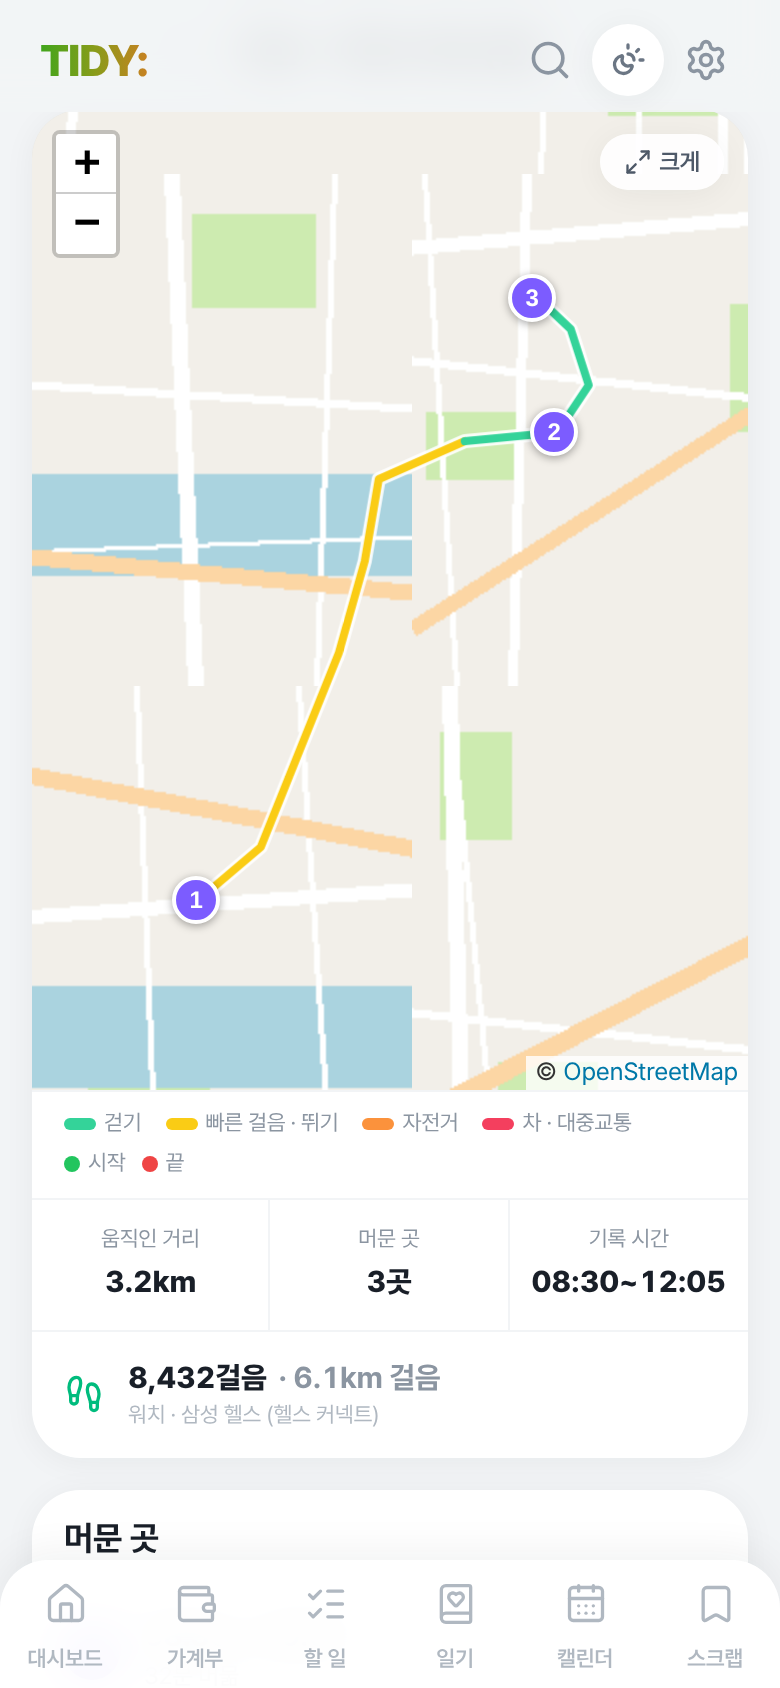
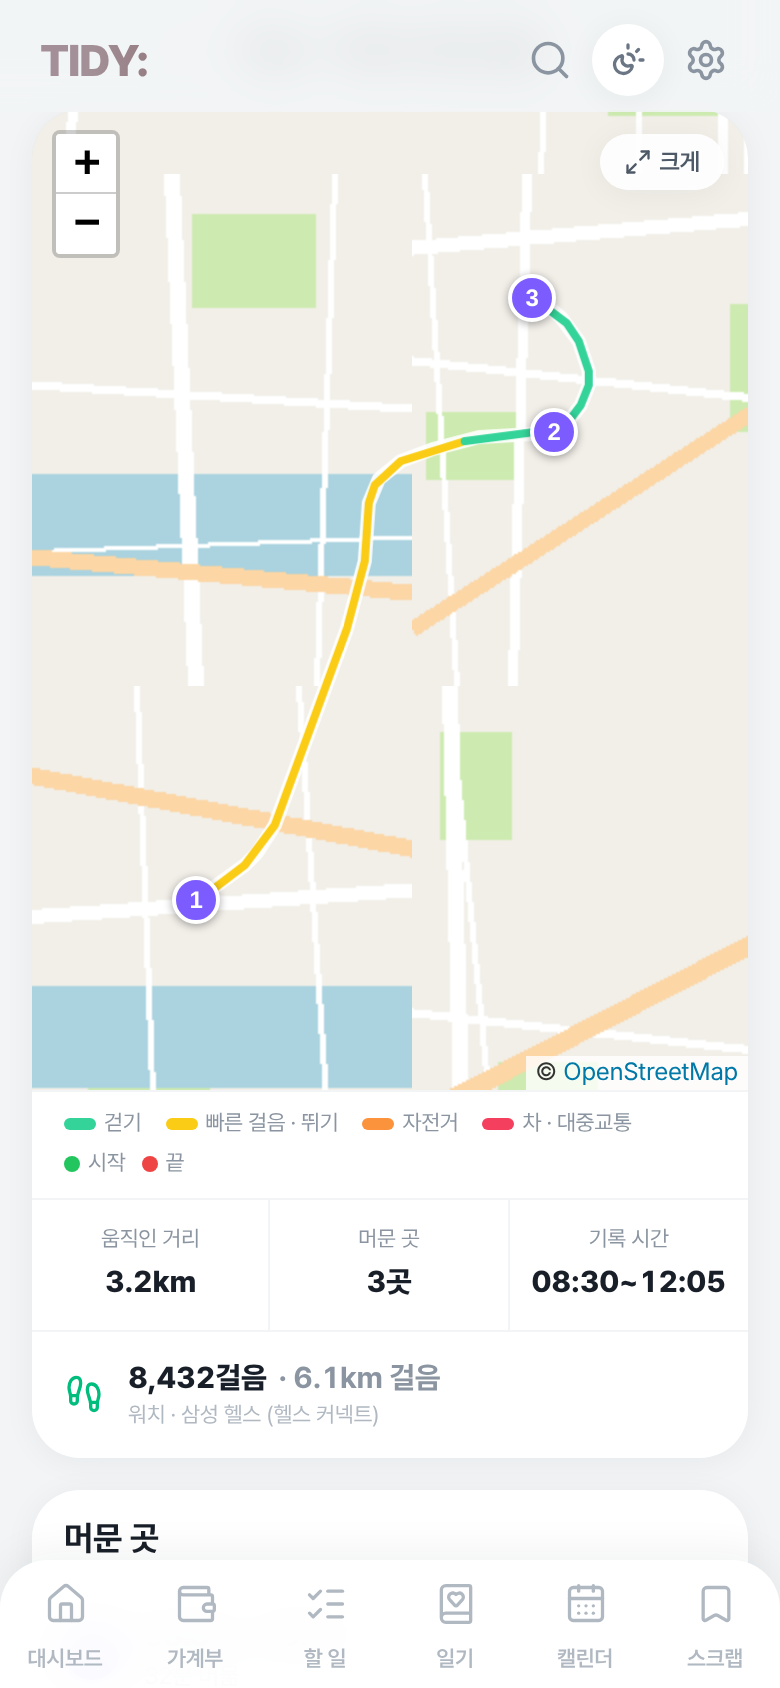
이동 기록 지도: 경로를 부드러운 곡선으로
- 꺾인 곳을 centripetal Catmull-Rom 곡선으로 (curveBetween, 원래 점은 그대로 지남)
- 그릴 때 제자리 흔들림(20m 안) 점은 뺌 (drawPoints)
- 테스트 추가

Claude-Session: https://claude.ai/code/session_01Ji86Qt13UDoHKvoK1HTbTq

diff --git a/src/lib/route.ts b/src/lib/route.ts
@@ -160,17 +160,75 @@ export interface SpeedPiece {
   points: { lat: number; lng: number }[]
 }
 
-/** 선을 빠르기 색이 같은 조각들로 나눈다. 조각끼리 끝 점을 같이 써서 선이 끊기지 않는다 */
-export function speedPieces(points: RoutePoint[]): SpeedPiece[] {
+type LatLng = { lat: number; lng: number }
+
+/**
+ * a → b 사이를 부드러운 곡선 점들로 (centripetal Catmull-Rom, 사용자 요청 2026-11-23 "경로가 각지지 않게")
+ * 곡선은 원래 점을 그대로 지나가서 머문 곳 · 시작 · 끝 위치는 바뀌지 않는다. 돌려주는 점에 a 는 빼고 b 는 넣는다
+ */
+export function curveBetween(p0: LatLng, a: LatLng, b: LatLng, p3: LatLng, steps = 12): LatLng[] {
+  // 위도에 따라 경도 1도의 길이가 다르니 평면처럼 펴서 계산한다
+  const k = Math.cos((a.lat * Math.PI) / 180)
+  const P = [p0, a, b, p3].map((p) => ({ x: p.lng * k, y: p.lat }))
+  const knot = (u: { x: number; y: number }, v: { x: number; y: number }) => Math.max(1e-9, Math.hypot(v.x - u.x, v.y - u.y) ** 0.5)
+  const t0 = 0
+  const t1 = t0 + knot(P[0], P[1])
+  const t2 = t1 + knot(P[1], P[2])
+  const t3 = t2 + knot(P[2], P[3])
+  const lerp = (u: { x: number; y: number }, v: { x: number; y: number }, ta: number, tb: number, t: number) => {
+    const w = tb - ta < 1e-12 ? 0 : (t - ta) / (tb - ta)
+    return { x: u.x + (v.x - u.x) * w, y: u.y + (v.y - u.y) * w }
+  }
+  const out: LatLng[] = []
+  for (let i = 1; i <= steps; i++) {
+    if (i === steps) {
+      out.push({ lat: b.lat, lng: b.lng })
+      break
+    }
+    const t = t1 + ((t2 - t1) * i) / steps
+    const A1 = lerp(P[0], P[1], t0, t1, t)
+    const A2 = lerp(P[1], P[2], t1, t2, t)
+    const A3 = lerp(P[2], P[3], t2, t3, t)
+    const B1 = lerp(A1, A2, t0, t2, t)
+    const B2 = lerp(A2, A3, t1, t3, t)
+    const C = lerp(B1, B2, t1, t2, t)
+    out.push({ lat: C.y, lng: C.x / k })
+  }
+  return out
+}
+
+/** 선을 빠르기 색이 같은 조각들로 나눈다. 조각끼리 끝 점을 같이 써서 선이 끊기지 않는다. smooth 면 꺾인 곳을 둥글게 */
+export function speedPieces(points: RoutePoint[], smooth = false): SpeedPiece[] {
   const out: SpeedPiece[] = []
   for (let i = 1; i < points.length; i++) {
     const a = points[i - 1]
     const b = points[i]
     const sec = Math.max(1, (b.t - a.t) / 1000)
     const color = speedColor((distanceM(a, b) / sec) * 3.6)
+    const tail = smooth && distanceM(a, b) > 5 ? curveBetween(points[i - 2] ?? a, a, b, points[i + 1] ?? b) : [{ lat: b.lat, lng: b.lng }]
     const last = out[out.length - 1]
-    if (last && last.color === color) last.points.push({ lat: b.lat, lng: b.lng })
-    else out.push({ color, points: [{ lat: a.lat, lng: a.lng }, { lat: b.lat, lng: b.lng }] })
+    if (last && last.color === color) last.points.push(...tail)
+    else out.push({ color, points: [{ lat: a.lat, lng: a.lng }, ...tail] })
+  }
+  return out
+}
+
+/** 테두리 선도 같은 곡선으로 */
+export function smoothLine(points: RoutePoint[]): LatLng[] {
+  return speedPieces(points, true).flatMap((p, i) => (i === 0 ? p.points : p.points.slice(1)))
+}
+
+/** 그릴 점만: 앞 점에서 20m(또는 정확도의 절반)도 안 움직인 점은 뺀다. 한곳에 있을 때 선이 지글지글 엉키지 않게. 마지막 점은 늘 남긴다 */
+export function drawPoints(points: RoutePoint[]): RoutePoint[] {
+  const out: RoutePoint[] = []
+  for (const p of points) {
+    const prev = out[out.length - 1]
+    if (!prev || distanceM(prev, p) >= Math.max(20, Math.min(prev.acc, p.acc) / 2)) out.push(p)
+  }
+  const last = points[points.length - 1]
+  if (last && out[out.length - 1] !== last) {
+    if (out.length > 1) out[out.length - 1] = last
+    else out.push(last)
   }
   return out
 }

diff --git a/tests/lib/route.test.ts b/tests/lib/route.test.ts
@@ -1,5 +1,5 @@
 import { describe, expect, it } from 'vitest'
-import { cleanPoints, distanceM, durationLabel, findStops, speedColor, speedPieces, summarize, type RoutePoint } from '../../src/lib/route'
+import { cleanPoints, curveBetween, distanceM, drawPoints, durationLabel, findStops, smoothLine, speedColor, speedPieces, summarize, type RoutePoint } from '../../src/lib/route'
 
 const MIN = 60 * 1000
 const T0 = new Date(2026, 10, 21, 9, 0).getTime()
@@ -78,5 +78,39 @@ describe('speedPieces', () => {
     expect(pieces[0].points).toHaveLength(3)
     expect(pieces[1].color).toBe(speedColor(60))
     expect(pieces[1].points[0]).toEqual({ lat: 37.5009, lng: 127 })
+  })
+})
+
+describe('부드러운 선', () => {
+  it('곡선은 원래 점을 지나고 끝 점에서 끝난다', () => {
+    const a = { lat: 37.5, lng: 127 }
+    const b = { lat: 37.501, lng: 127.001 }
+    const pts = curveBetween({ lat: 37.499, lng: 127 }, a, b, { lat: 37.501, lng: 127.002 })
+    expect(pts).toHaveLength(12)
+    expect(pts[pts.length - 1]).toEqual(b)
+    for (const p of pts) {
+      expect(p.lat).toBeGreaterThan(37.499)
+      expect(p.lat).toBeLessThan(37.502)
+    }
+  })
+  it('smoothLine 은 시작 · 끝 점이 그대로다', () => {
+    const t = 1_700_000_000_000
+    const pts = [0, 1, 2, 3].map((i) => ({ t: t + i * 60000, lat: 37.5 + i * 0.001, lng: 127 + (i % 2) * 0.001, acc: 5 }))
+    const line = smoothLine(pts)
+    expect(line[0]).toEqual({ lat: pts[0].lat, lng: pts[0].lng })
+    expect(line[line.length - 1]).toEqual({ lat: pts[3].lat, lng: pts[3].lng })
+    expect(line.length).toBeGreaterThan(pts.length * 4)
+  })
+  it('drawPoints 는 제자리 흔들림을 빼고 마지막 점은 남긴다', () => {
+    const t = 1_700_000_000_000
+    const pts = [
+      { t, lat: 37.5, lng: 127, acc: 10 },
+      { t: t + 1, lat: 37.50005, lng: 127, acc: 10 },
+      { t: t + 2, lat: 37.501, lng: 127, acc: 10 },
+      { t: t + 3, lat: 37.50101, lng: 127, acc: 10 },
+    ]
+    const out = drawPoints(pts)
+    expect(out).toHaveLength(2)
+    expect(out[1]).toBe(pts[3])
   })
 })

diff --git a/src/components/route/RouteMap.tsx b/src/components/route/RouteMap.tsx
@@ -2,7 +2,7 @@ import L from 'leaflet'
 import 'leaflet/dist/leaflet.css'
 import { useEffect, useRef } from 'react'
 import { MAX_ZOOM, OSM_TILE } from '../../lib/mapTile'
-import { speedPieces, type RoutePoint, type RouteStop } from '../../lib/route'
+import { drawPoints, smoothLine, speedPieces, type RoutePoint, type RouteStop } from '../../lib/route'
 import { isNativeApp } from '../../platform/native'
 
 /**
@@ -98,8 +98,9 @@ export default function RouteMap({ points, stops, interactive = true, focus = nu
     const latlngs = points.map((p) => L.latLng(p.lat, p.lng))
     // 테두리 한 줄 + 빠르기별 색 조각 (걷기 초록 → 차 빨강)
     // 테두리는 다크 모드면 어둡게 (index.css .tidy-route-outline)
-    L.polyline(latlngs, { color: '#fff', weight: 7, opacity: 0.9, lineJoin: 'round', lineCap: 'round', className: 'tidy-route-outline' }).addTo(g)
-    for (const piece of speedPieces(points)) L.polyline(piece.points, { color: piece.color, weight: 4, opacity: 1, lineJoin: 'round', lineCap: 'round' }).addTo(g)
+    const line = drawPoints(points)
+    L.polyline(smoothLine(line), { color: '#fff', weight: 7, opacity: 0.9, lineJoin: 'round', lineCap: 'round', className: 'tidy-route-outline' }).addTo(g)
+    for (const piece of speedPieces(line, true)) L.polyline(piece.points, { color: piece.color, weight: 4, opacity: 1, lineJoin: 'round', lineCap: 'round', smoothFactor: 1.5 }).addTo(g)
     // 시작(초록) · 끝(빨강)
     L.circleMarker(latlngs[0], { radius: 6, color: '#fff', weight: 2, fillColor: '#22c55e', fillOpacity: 1 }).addTo(g)
     if (latlngs.length > 1) L.circleMarker(latlngs[latlngs.length - 1], { radius: 7, color: '#fff', weight: 3, fillColor: '#ef4444', fillOpacity: 1 }).addTo(g)

diff --git a/docs/개발-기록-조각/project-thread-2ynhk2.md b/docs/개발-기록-조각/project-thread-2ynhk2.md
@@ -1,7 +1,7 @@
 ## 6
 | 2026-11-23 | #? | 기능 | 워치 걸음 수 · 걸은 거리: 갤럭시 워치 → 삼성 헬스 → 헬스 커넥트에 모인 오늘 걸음 수와 걸은 거리를 읽어서 이동 기록 화면(지도 아래)과 대시보드 이동 기록 위젯에 보여 줌. 설정 > 오늘 이동 기록에서 켜고 끔. 읽기만 하고 걸음 · 거리 두 가지 권한만 물음 (@capgo/capacitor-health, 폰 최소 버전 안드로이드 8로 올림) | 검토 중 |
 | 2026-11-23 | #? | 기능 | 이동 기록 자동 · 컴퓨터에서도: 끄지 않았으면 폰 앱 · 웹을 열 때 이동 기록이 저절로 켜짐 (위치 권한은 처음 한 번 물음, 거절하면 다시 안 물음). 컴퓨터 · 웹도 Tidy 창이 열려 있는 동안 2분마다 또는 40m 넘게 움직일 때 위치를 남김 (전에는 '지금 위치 남기기'만) | 검토 중 |
-| 2026-11-23 | #? | 기능 | 이동 기록 지도를 운동 앱처럼: 선을 빠르기별 색(걷기 초록 · 빠른 걸음 노랑 · 자전거 주황 · 차 빨강)으로, 시작 초록 · 끝 빨강 점, 색 설명. '크게' 버튼으로 화면 가득 보기(거리 · 걸음 수 · 시간). 다크 모드면 지도 그림도 어둡게 (OSM 그림을 CSS로 뒤집음, 키 필요 없음) | 검토 중 |
+| 2026-11-23 | #? | 기능 | 이동 기록 지도를 운동 앱처럼: 선을 빠르기별 색(걷기 초록 · 빠른 걸음 노랑 · 자전거 주황 · 차 빨강)으로, 시작 초록 · 끝 빨강 점, 색 설명. '크게' 버튼으로 화면 가득 보기(거리 · 걸음 수 · 시간). 다크 모드면 지도 그림도 어둡게 (OSM 그림을 CSS로 뒤집음, 키 필요 없음). 경로가 각지지 않게 꺾인 곳을 곡선으로 그리고(원래 점은 그대로 지남), 제자리 흔들림은 그릴 때 뺌 | 검토 중 |
 
 ## 3-3
 | 걸음 수 | 헬스 커넥트 (안드로이드, 무료) + @capgo/capacitor-health. 걸음 · 거리 읽기만, 쓰기 권한은 빼 둠. 플러그인 때문에 minSdk 24 → 26 |
@@ -9,7 +9,7 @@
 ## 4-4
 | 워치 걸음 수 · 걸은 거리 | 헬스 커넥트에서 그날 걸음 수 · 걸은 거리를 읽어 이동 기록 화면 · 대시보드 위젯에 함께 보여 줌 (폰 앱만, 2분마다 새로) | 🧪 | #? |
 | 이동 기록 자동 · 컴퓨터 | 열 때 저절로 켜짐 (직접 끄면 그대로 꺼 둠). 컴퓨터 · 웹은 창이 열려 있는 동안 기록 | 🧪 | #? |
-| 이동 기록 지도 꾸미기 | 빠르기별 색 선, 화면 가득 보기, 다크 모드면 어두운 지도 | 🧪 | #? |
+| 이동 기록 지도 꾸미기 | 빠르기별 색 · 부드러운 곡선 경로, 화면 가득 보기, 다크 모드면 어두운 지도 | 🧪 | #? |
 
 ## 5-2
 | 워치 걸음 수 | #? | 실제 갤럭시에서 '연결' → 헬스 커넥트 허락 화면이 뜨는지, 삼성 헬스 설정에서 헬스 커넥트 연결을 켠 뒤 걸음 수 · 거리가 삼성 헬스와 같게 나오는지 |
